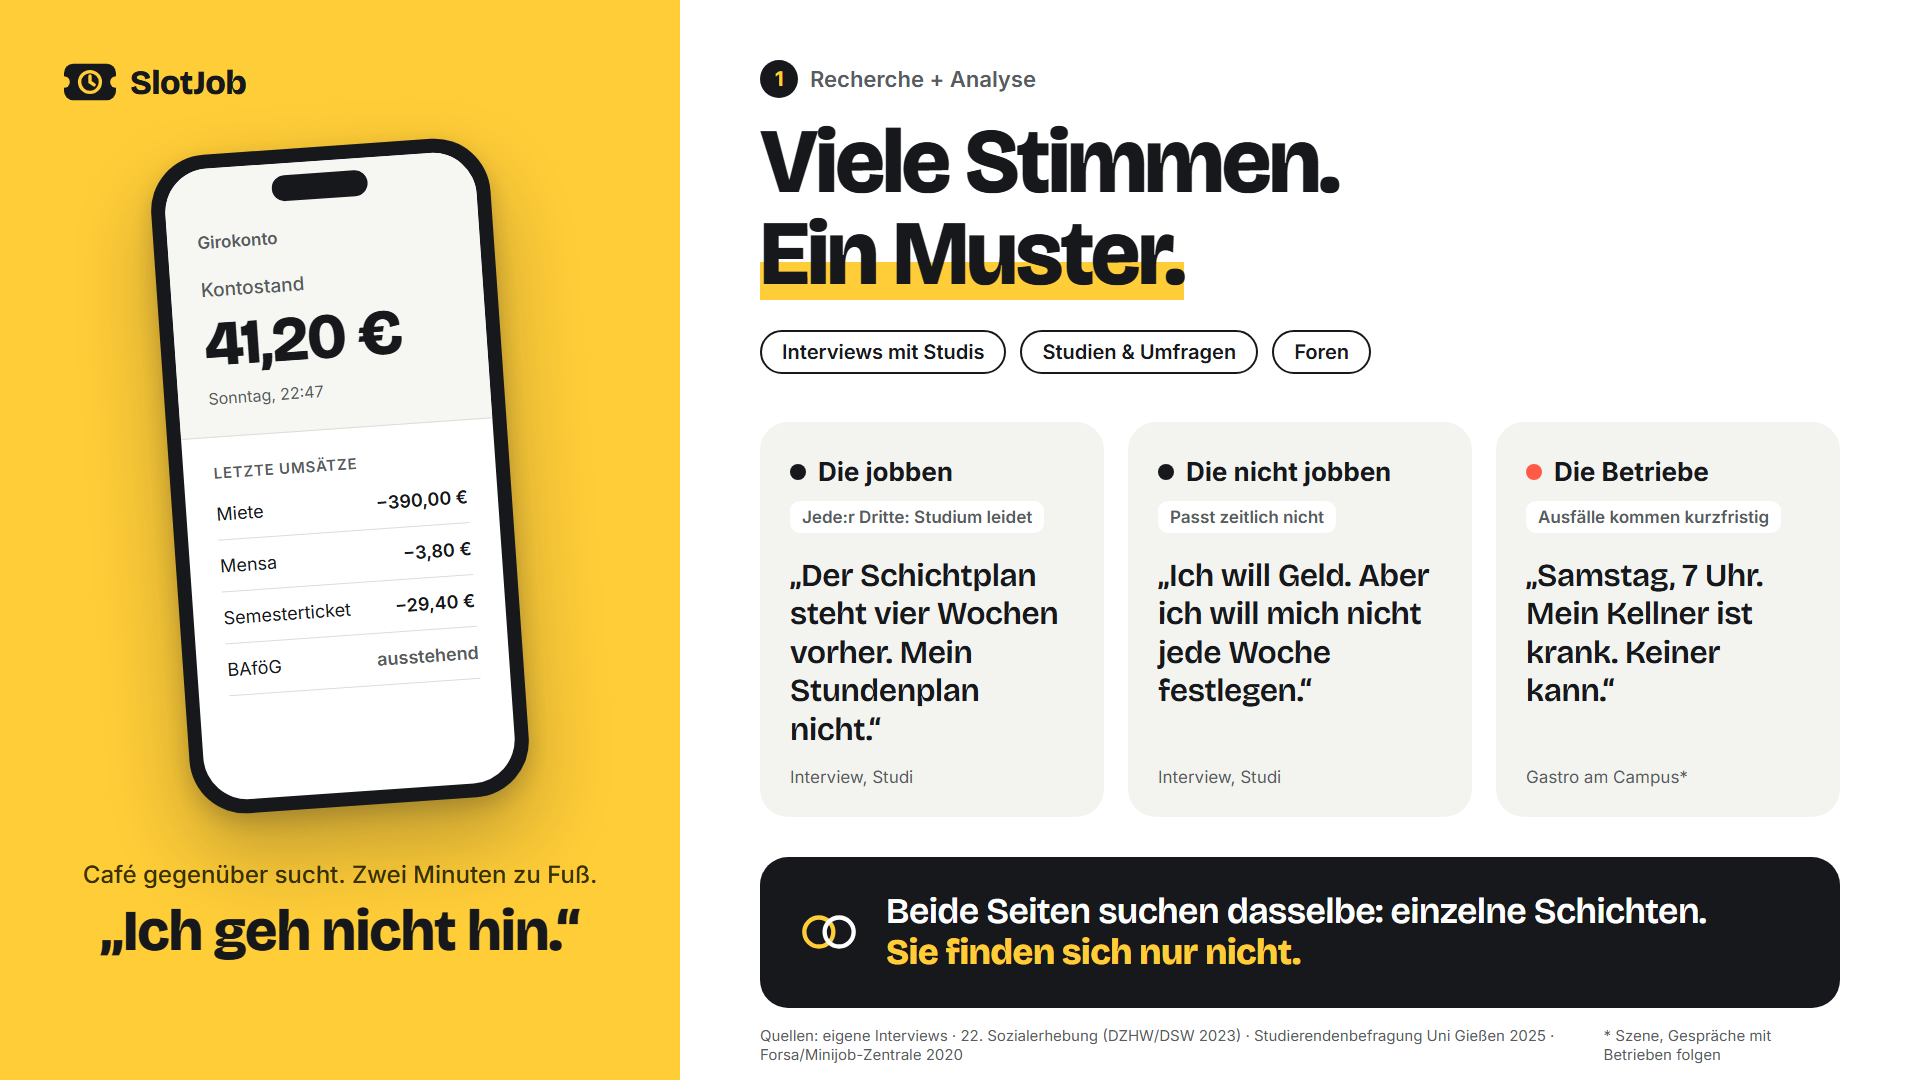
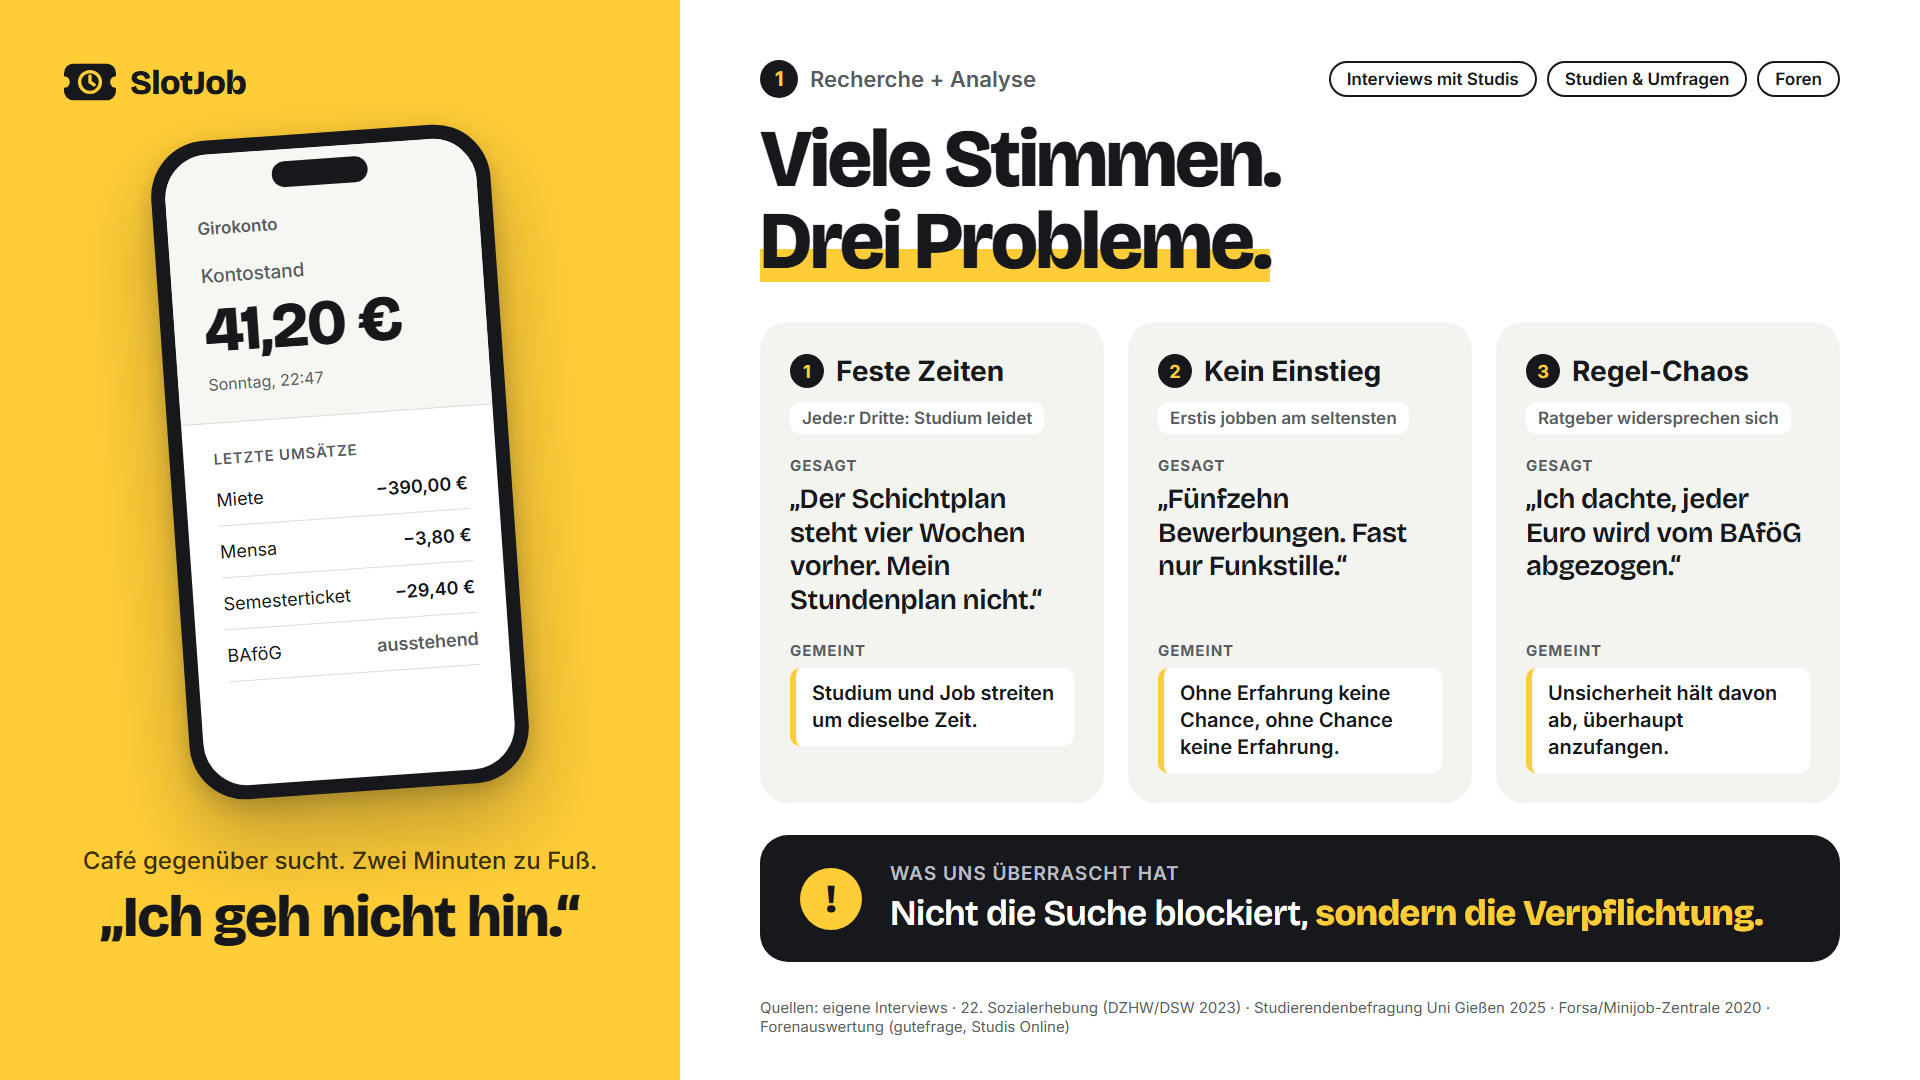
Add files via upload

diff --git a/pitch/folie-1-recherche-analyse.html b/pitch/folie-1-recherche-analyse.html
@@ -39,23 +39,25 @@
 
   /* Rechte Seite: Inhalt */
   .content{padding:60px 80px 44px 80px;display:flex;flex-direction:column}
-  .eyebrow{display:inline-flex;align-self:flex-start;align-items:center;gap:12px;font-weight:600;font-size:22px;color:var(--mute)}
+  .toprow{display:flex;justify-content:space-between;align-items:center;gap:20px}
+  .eyebrow{display:inline-flex;align-items:center;gap:12px;font-weight:600;font-size:22px;color:var(--mute)}
   .eyebrow b{display:inline-grid;place-items:center;width:38px;height:38px;border-radius:50%;background:var(--ink);color:var(--sun);font-size:20px}
-  h1{font-family:var(--display);font-weight:800;font-size:92px;line-height:1;letter-spacing:-2.5px;margin:18px 0 0}
+  h1{font-family:var(--display);font-weight:800;font-size:82px;line-height:1;letter-spacing:-2.5px;margin:20px 0 0}
   h1 em{font-style:normal;background:linear-gradient(transparent 58%,var(--sun) 58%,var(--sun) 92%,transparent 92%)}
-  .method{display:flex;gap:14px;margin-top:30px}
-  .chip{border:2px solid var(--ink);border-radius:999px;padding:8px 20px;font-size:20px;font-weight:600}
-  .voices{display:grid;grid-template-columns:repeat(3,1fr);gap:24px;margin-top:48px}
-  .voice{background:var(--soft);border-radius:28px;padding:34px 30px 30px;display:flex;flex-direction:column}
-  .who{display:flex;align-items:center;gap:12px;font-weight:700;font-size:26px}
-  .who i{width:16px;height:16px;border-radius:50%;background:var(--ink);display:inline-block}
-  .voice.biz .who i{background:var(--coral)}
+  .method{display:flex;gap:10px}
+  .chip{border:2px solid var(--ink);border-radius:999px;padding:6px 16px;font-size:17px;font-weight:600}
+  .voices{display:grid;grid-template-columns:repeat(3,minmax(0,1fr));gap:24px;margin-top:40px}
+  .voice{background:var(--soft);border-radius:28px;padding:32px 30px 30px;display:flex;flex-direction:column}
+  .who{display:flex;align-items:center;gap:12px;font-weight:700;font-size:28px}
+  .who i{display:inline-grid;place-items:center;width:34px;height:34px;border-radius:50%;background:var(--ink);color:var(--sun);font-style:normal;font-size:18px}
   .tag{align-self:flex-start;margin-top:14px;background:#fff;border-radius:10px;padding:6px 12px;font-size:17px;white-space:nowrap;font-weight:600;color:var(--mute)}
-  .quote{font-family:var(--display);font-weight:600;font-size:32px;line-height:1.2;letter-spacing:-.3px;margin-top:24px;flex:1}
-    .src{font-size:17px;color:var(--mute);margin-top:18px}
-  .insight{margin-top:40px;background:var(--ink);color:#fff;border-radius:28px;padding:34px 40px;display:flex;align-items:center;gap:28px}
-  .insight svg{flex:none;width:58px;height:58px}
+  .lbl{margin-top:22px;font-size:15px;font-weight:700;letter-spacing:1px;text-transform:uppercase;color:var(--mute)}
+  .quote{font-family:var(--display);font-weight:600;font-size:28px;line-height:1.2;letter-spacing:-.3px;margin-top:8px;min-height:136px}
+  .meant{margin-top:8px;font-size:20px;line-height:1.35;font-weight:600;background:#fff;border-left:6px solid var(--sun);border-radius:10px;padding:12px 16px}
+  .insight{margin-top:32px;background:var(--ink);color:#fff;border-radius:28px;padding:28px 40px;display:flex;align-items:center;gap:28px}
+  .insight .bang{flex:none;display:grid;place-items:center;width:62px;height:62px;border-radius:50%;background:var(--sun);color:var(--ink);font-family:var(--display);font-weight:800;font-size:40px}
   .insight p{margin:0;font-family:var(--display);font-weight:600;font-size:36px;line-height:1.15;letter-spacing:-.5px}
+  .insight p small{display:block;font-family:var(--text);font-size:19px;font-weight:600;letter-spacing:1px;text-transform:uppercase;color:#b9bcc0;margin-bottom:8px}
   .insight p b{color:var(--sun);font-weight:800}
   .foot{margin-top:auto;padding-top:18px;font-size:15px;color:var(--mute);display:flex;justify-content:space-between;gap:24px}
 </style>
@@ -101,47 +103,50 @@
   </section>
 
   <section class="content">
-    <div class="eyebrow"><b>1</b> Recherche + Analyse</div>
-    <h1>Viele Stimmen.<br><em>Ein Muster.</em></h1>
-
-    <div class="method">
-      <span class="chip">Interviews mit Studis</span>
-      <span class="chip">Studien &amp; Umfragen</span>
-      <span class="chip">Foren</span>
+    <div class="toprow">
+      <div class="eyebrow"><b>1</b> Recherche + Analyse</div>
+      <div class="method">
+        <span class="chip">Interviews mit Studis</span>
+        <span class="chip">Studien &amp; Umfragen</span>
+        <span class="chip">Foren</span>
+      </div>
     </div>
+    <h1>Viele Stimmen.<br><em>Drei Probleme.</em></h1>
 
     <div class="voices">
       <div class="voice">
-        <div class="who"><i></i>Die jobben</div>
+        <div class="who"><i>1</i>Feste Zeiten</div>
         <span class="tag">Jede:r Dritte: Studium leidet</span>
+        <div class="lbl">Gesagt</div>
         <div class="quote">„Der Schichtplan steht vier Wochen vorher. Mein Stundenplan nicht.“</div>
-        <div class="src">Interview, Studi</div>
+        <div class="lbl">Gemeint</div>
+        <div class="meant">Studium und Job streiten um dieselbe Zeit.</div>
       </div>
       <div class="voice">
-        <div class="who"><i></i>Die nicht jobben</div>
-        <span class="tag">Passt zeitlich nicht</span>
-        <div class="quote">„Ich will Geld. Aber ich will mich nicht jede Woche festlegen.“</div>
-        <div class="src">Interview, Studi</div>
+        <div class="who"><i>2</i>Kein Einstieg</div>
+        <span class="tag">Erstis jobben am seltensten</span>
+        <div class="lbl">Gesagt</div>
+        <div class="quote">„Fünfzehn Bewerbungen. Fast nur Funkstille.“</div>
+        <div class="lbl">Gemeint</div>
+        <div class="meant">Ohne Erfahrung keine Chance, ohne Chance keine Erfahrung.</div>
       </div>
-      <div class="voice biz">
-        <div class="who"><i></i>Die Betriebe</div>
-        <span class="tag">Ausfälle kommen kurzfristig</span>
-        <div class="quote">„Samstag, 7 Uhr. Mein Kellner ist krank. Keiner kann.“</div>
-        <div class="src">Gastro am Campus*</div>
+      <div class="voice">
+        <div class="who"><i>3</i>Regel-Chaos</div>
+        <span class="tag">Ratgeber widersprechen sich</span>
+        <div class="lbl">Gesagt</div>
+        <div class="quote">„Ich dachte, jeder Euro wird vom BAföG abgezogen.“</div>
+        <div class="lbl">Gemeint</div>
+        <div class="meant">Unsicherheit hält davon ab, überhaupt anzufangen.</div>
       </div>
     </div>
 
     <div class="insight">
-      <svg viewBox="0 0 40 40" aria-hidden="true">
-        <circle cx="13" cy="20" r="10" fill="none" stroke="#ffcd38" stroke-width="3"/>
-        <circle cx="27" cy="20" r="10" fill="none" stroke="#fff" stroke-width="3"/>
-      </svg>
-      <p>Beide Seiten suchen dasselbe: einzelne Schichten.<br><b>Sie finden sich nur nicht.</b></p>
+      <span class="bang">!</span>
+      <p><small>Was uns überrascht hat</small>Nicht die Suche blockiert, <b>sondern die Verpflichtung.</b></p>
     </div>
 
     <div class="foot">
-      <span>Quellen: eigene Interviews · 22. Sozialerhebung (DZHW/DSW 2023) · Studierendenbefragung Uni Gießen 2025 · Forsa/Minijob-Zentrale 2020</span>
-      <span>* Szene, Gespräche mit Betrieben folgen</span>
+      <span>Quellen: eigene Interviews · 22. Sozialerhebung (DZHW/DSW 2023) · Studierendenbefragung Uni Gießen 2025 · Forsa/Minijob-Zentrale 2020 · Forenauswertung (gutefrage, Studis Online)</span>
     </div>
   </section>
 

diff --git a/pitch/folie-2-point-of-view.html b/pitch/folie-2-point-of-view.html
@@ -1,0 +1,128 @@
+<!doctype html>
+<html lang="de">
+<head>
+<meta charset="utf-8">
+<meta name="viewport" content="width=1920">
+<title>Point of View</title>
+<link rel="preconnect" href="https://fonts.googleapis.com">
+<link rel="preconnect" href="https://fonts.gstatic.com" crossorigin>
+<link href="https://fonts.googleapis.com/css2?family=Bricolage+Grotesque:opsz,wght@12..96,600;12..96,800&family=Inter:wght@400;500;600;700&display=swap" rel="stylesheet">
+<style>
+  :root{
+    --sun:#ffcd38; --ink:#16181b; --mute:#575c62; --line:#dcddd7; --soft:#f3f3ef; --coral:#ff5a45;
+    --display:"Bricolage Grotesque","Avenir Next","Segoe UI",system-ui,sans-serif;
+    --text:Inter,system-ui,-apple-system,"Segoe UI",sans-serif;
+  }
+  *{box-sizing:border-box}
+  html,body{margin:0;background:#fff}
+  body{width:1920px;height:1080px;overflow:hidden;font-family:var(--text);color:var(--ink)}
+  .slide{width:1920px;height:1080px;padding:56px 96px 40px;display:flex;flex-direction:column}
+
+  .top{display:flex;justify-content:space-between;align-items:center}
+  .eyebrow{display:inline-flex;align-items:center;gap:12px;font-weight:600;font-size:22px;color:var(--mute)}
+  .eyebrow b{display:inline-grid;place-items:center;width:38px;height:38px;border-radius:50%;background:var(--ink);color:var(--sun);font-size:20px}
+  .logo{display:flex;align-items:center;gap:12px;font-family:var(--display);font-weight:800;font-size:28px;letter-spacing:-.5px}
+  .logo svg{width:44px;height:44px}
+  h1{font-family:var(--display);font-weight:800;font-size:84px;line-height:1;letter-spacing:-2.5px;margin:22px 0 0}
+  h1 em{font-style:normal;background:linear-gradient(transparent 58%,var(--sun) 58%,var(--sun) 92%,transparent 92%)}
+
+  .pair{display:grid;grid-template-columns:1fr 96px 1fr;margin-top:40px;align-items:stretch}
+  .persona{border-radius:32px;padding:36px 40px 34px;display:flex;flex-direction:column}
+  .persona.studi{background:var(--sun)}
+  .persona.biz{background:var(--soft)}
+  .head{display:flex;align-items:center;gap:20px}
+  .avatar{width:80px;height:80px;border-radius:50%;display:grid;place-items:center;font-family:var(--display);font-weight:800;font-size:40px;background:var(--ink);color:var(--sun)}
+  .biz .avatar{color:#fff;background:var(--coral)}
+  .name{font-family:var(--display);font-weight:800;font-size:44px;letter-spacing:-1px;line-height:1}
+  .role{font-size:21px;font-weight:600;color:var(--mute);margin-top:8px}
+  .studi .role{color:#4a3d00}
+  .rows{margin-top:28px;display:grid;grid-template-columns:118px 1fr;row-gap:18px;column-gap:18px;align-items:baseline}
+  .k{font-size:15px;font-weight:700;letter-spacing:1px;text-transform:uppercase;color:var(--mute)}
+  .studi .k{color:#5c4b00}
+  .v{font-size:24px;line-height:1.3;font-weight:500}
+  .v.q{font-family:var(--display);font-weight:600;font-size:28px;line-height:1.2;letter-spacing:-.3px}
+  .v.need{font-weight:700}
+  .truth{margin-top:auto;padding-top:26px}
+  .truth span{display:inline-block;font-family:var(--display);font-weight:800;font-size:40px;letter-spacing:-.8px;line-height:1.1;background:var(--ink);color:#fff;border-radius:14px;padding:12px 20px}
+  .truth span b{color:var(--sun);font-weight:800}
+
+  .link{display:grid;place-items:center}
+  .link svg{width:64px;height:64px}
+
+  .hmw{margin-top:34px;background:var(--ink);color:#fff;border-radius:28px;padding:30px 44px;display:flex;align-items:center;gap:30px}
+  .hmw .q{flex:none;display:grid;place-items:center;width:66px;height:66px;border-radius:50%;background:var(--sun);color:var(--ink);font-family:var(--display);font-weight:800;font-size:42px}
+  .hmw p{margin:0;font-family:var(--display);font-weight:600;font-size:36px;line-height:1.18;letter-spacing:-.5px}
+  .hmw p small{display:block;font-family:var(--text);font-size:19px;font-weight:600;letter-spacing:1px;text-transform:uppercase;color:#b9bcc0;margin-bottom:8px}
+  .hmw p b{color:var(--sun);font-weight:800}
+  .foot{margin-top:auto;padding-top:16px;font-size:15px;color:var(--mute)}
+</style>
+</head>
+<body>
+<div class="slide">
+
+  <div class="top">
+    <div class="eyebrow"><b>2</b> Point of View</div>
+    <div class="logo">
+      <svg viewBox="0 0 40 40" aria-hidden="true">
+        <rect x="0" y="6" width="40" height="28" rx="7" fill="#ffcd38"/>
+        <circle cx="0" cy="20" r="4.5" fill="#fff"/>
+        <circle cx="40" cy="20" r="4.5" fill="#fff"/>
+        <circle cx="20" cy="20" r="8" fill="none" stroke="#16181b" stroke-width="2.6"/>
+        <path d="M20 15.4V20l3.2 2.2" stroke="#16181b" stroke-width="2.6" fill="none" stroke-linecap="round"/>
+      </svg>
+      SlotJob
+    </div>
+  </div>
+
+  <h1>Zwei Seiten. <em>Ein Problem.</em></h1>
+
+  <div class="pair">
+    <div class="persona studi">
+      <div class="head">
+        <div class="avatar">R</div>
+        <div>
+          <div class="name">Rudolf, 20</div>
+          <div class="role">Maschinenbau, 3. Semester · BAföG</div>
+        </div>
+      </div>
+      <div class="rows">
+        <div class="k">Will</div><div class="v">einen guten Bachelor für einen guten Master</div>
+        <div class="k">Sagt</div><div class="v q">„Diese Woche könnte ich zwölf Stunden. Nächste Woche ist Klausur, da geht null.“</div>
+        <div class="k">Braucht</div><div class="v need">Geld verdienen, wann sein Studium es zulässt</div>
+      </div>
+      <div class="truth"><span>Hat Zeit, <b>aber nicht planbar.</b></span></div>
+    </div>
+
+    <div class="link" aria-hidden="true">
+      <svg viewBox="0 0 64 64">
+        <path d="M14 24h34l-8-8M50 40H16l8 8" fill="none" stroke="#16181b" stroke-width="4" stroke-linecap="round" stroke-linejoin="round"/>
+      </svg>
+    </div>
+
+    <div class="persona biz">
+      <div class="head">
+        <div class="avatar">M</div>
+        <div>
+          <div class="name">Marco, 41</div>
+          <div class="role">Trattoria Lupo am Campus</div>
+        </div>
+      </div>
+      <div class="rows">
+        <div class="k">Will</div><div class="v">einen vollen Laden, ohne selbst jede Lücke zu stopfen</div>
+        <div class="k">Sagt</div><div class="v q">„Samstag, 7 Uhr. Mein Kellner ist krank. Heute Abend ist voll.“</div>
+        <div class="k">Braucht</div><div class="v need">zuverlässige Leute auf Abruf, ohne neu einzustellen</div>
+      </div>
+      <div class="truth"><span>Hat Arbeit, <b>aber nicht planbar.</b></span></div>
+    </div>
+  </div>
+
+  <div class="hmw">
+    <span class="q">?</span>
+    <p><small>How might we</small>Wie könnten wir Rudolfs freie Stunden und Marcos offene Schichten zusammenbringen, <b>ohne dass sich einer festlegen muss?</b></p>
+  </div>
+
+  <div class="foot">Rudolf: Persona aus unseren Interviews · Marco: Persona aus Annahmen, Gespräche mit Betrieben folgen</div>
+
+</div>
+</body>
+</html>
